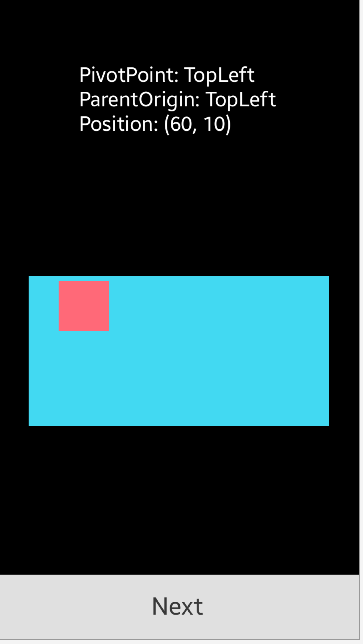
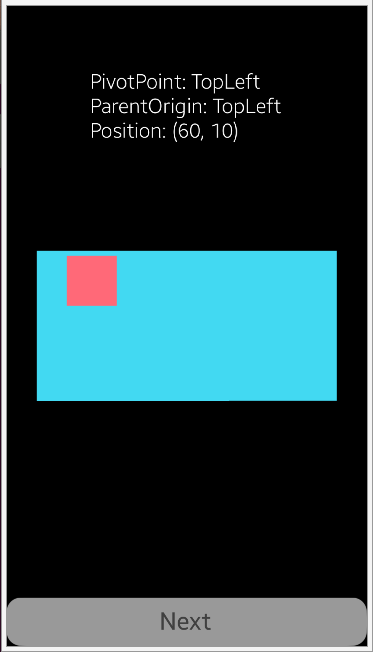
[NUI][View] animation and alignment fixed
animation cleared if not used,
deprecated events changed to the new ones,
text label properly centered,
button default properties changed

Changed region(s): [[0.0, 0.0, 1.0, 1.0], [0.0606, 0.3727, 0.9091, 0.6832], [0.2121, 0.0932, 0.7576, 0.2174]]

diff --git a/Mobile/NUI/View/NUIView/NUIView.cs b/Mobile/NUI/View/NUIView/NUIView.cs
@@ -88,31 +88,42 @@ namespace NUIView
             RootView.BackgroundColor = Color.Black;
 
             // create button and place it at the bottom of the screen
-            Button = new Button();
-            Button.Text = "Next";
-            Button.PositionUsesPivotPoint = true;
-            Button.PivotPoint = PivotPoint.TopCenter;
-            Button.ParentOrigin = new Vector3(0.5f, 0.9f, 0.0f);
-            Button.WidthResizePolicy = ResizePolicyType.FillToParent;
-            Button.HeightResizePolicy = ResizePolicyType.SizeRelativeToParent;
-            Button.SetSizeModeFactor(new Vector3(0.0f, 0.1f, 0.0f));
+            Button = new Button()
+            {
+                Text = "Next",
+                TextColor = new Color(0.25f, 0.25f, 0.25f, 1.0f),
+                PointSize = 12,
+                PositionUsesPivotPoint = true,
+                PivotPoint = PivotPoint.BottomCenter,
+                ParentOrigin = ParentOrigin.BottomCenter,
+                WidthResizePolicy = ResizePolicyType.FillToParent,
+                HeightResizePolicy = ResizePolicyType.UseNaturalSize,
+                BackgroundColor = new Color(0.6f, 0.6f, 0.6f, 1.0f),
+            };
 
             // create main view and place it over the button
-            MainView = new View();
-            MainView.PositionUsesPivotPoint = true;
-            MainView.PivotPoint = PivotPoint.TopCenter;
-            MainView.ParentOrigin = new Vector3(0.5f, 0.2f, 0.0f);
-            MainView.WidthResizePolicy = ResizePolicyType.FillToParent;
-            MainView.HeightResizePolicy = ResizePolicyType.SizeRelativeToParent;
-            MainView.SetSizeModeFactor(new Vector3(0.0f, 0.7f, 0.0f));
+            MainView = new View()
+            {
+                PositionUsesPivotPoint = true,
+                PivotPoint = PivotPoint.Center,
+                ParentOrigin = ParentOrigin.Center,
+                WidthResizePolicy = ResizePolicyType.FillToParent,
+                HeightResizePolicy = ResizePolicyType.UseNaturalSize,
+            };
 
             // create text label that will hold text information
-            TextLabel = new TextLabel();
-            TextLabel.PositionUsesPivotPoint = true;
-            TextLabel.PivotPoint = PivotPoint.TopCenter;
-            TextLabel.ParentOrigin = new Vector3(0.5f, 0.1f, 0.0f);
-            TextLabel.MultiLine = true;
-            TextLabel.TextColor = Color.White;
+            TextLabel = new TextLabel()
+            {
+                PositionUsesPivotPoint = true,
+                PivotPoint = PivotPoint.TopCenter,
+                ParentOrigin = new Vector3(0.5f, 0.1f, 0.0f),
+                WidthResizePolicy = ResizePolicyType.UseNaturalSize,
+                HeightResizePolicy = ResizePolicyType.UseNaturalSize,
+                MultiLine = true,
+                TextColor = Color.White,
+                PointSize = 10,
+                FontFamily = "Arial",
+            };
 
             // add view to their parents
             RootView.Add(TextLabel);
@@ -125,7 +136,7 @@ namespace NUIView
             CurrentView = 1;
 
             // add events to button on click and key event to window
-            Button.ClickEvent += ButtonClicked;
+            Button.Clicked += ButtonClicked;
             Window.KeyEvent += OnKeyEvent;
         }
 
@@ -134,14 +145,22 @@ namespace NUIView
         /// </summary>
         /// <param name="sender">Button instance</param>
         /// <param name="e">Event arguments</param>
-        private void ButtonClicked(object sender, Button.ClickEventArgs e)
+        private void ButtonClicked(object sender, ClickedEventArgs e)
         {
+            // clear the animation
+            if (Animation) Animation.Clear();
+            Animation = null;
             // clear the previous view, unparent and set to null to dispose of
-            ChildView.Unparent();
-            ParentView.Unparent();
-            ChildView.Dispose();
-            ParentView.Dispose();
+            if (ChildView) {
+                ChildView.Unparent();
+                ChildView.Dispose();
+            }
             ChildView = null;
+            // clear the previous view, unparent and set to null to dispose of
+            if (ParentView) {
+                ParentView.Unparent();
+                ParentView.Dispose();
+            }
             ParentView = null;
 
             // update current view to next view
@@ -358,7 +377,7 @@ namespace NUIView
             ChildView.BackgroundColor = new Color(1.0f, 0.41f, 0.47f, 1.0f);
 
             TextLabel.Text = "Touch event example";
-            
+
             // Register event
             ParentView.TouchEvent += OnViewTouch;
 
